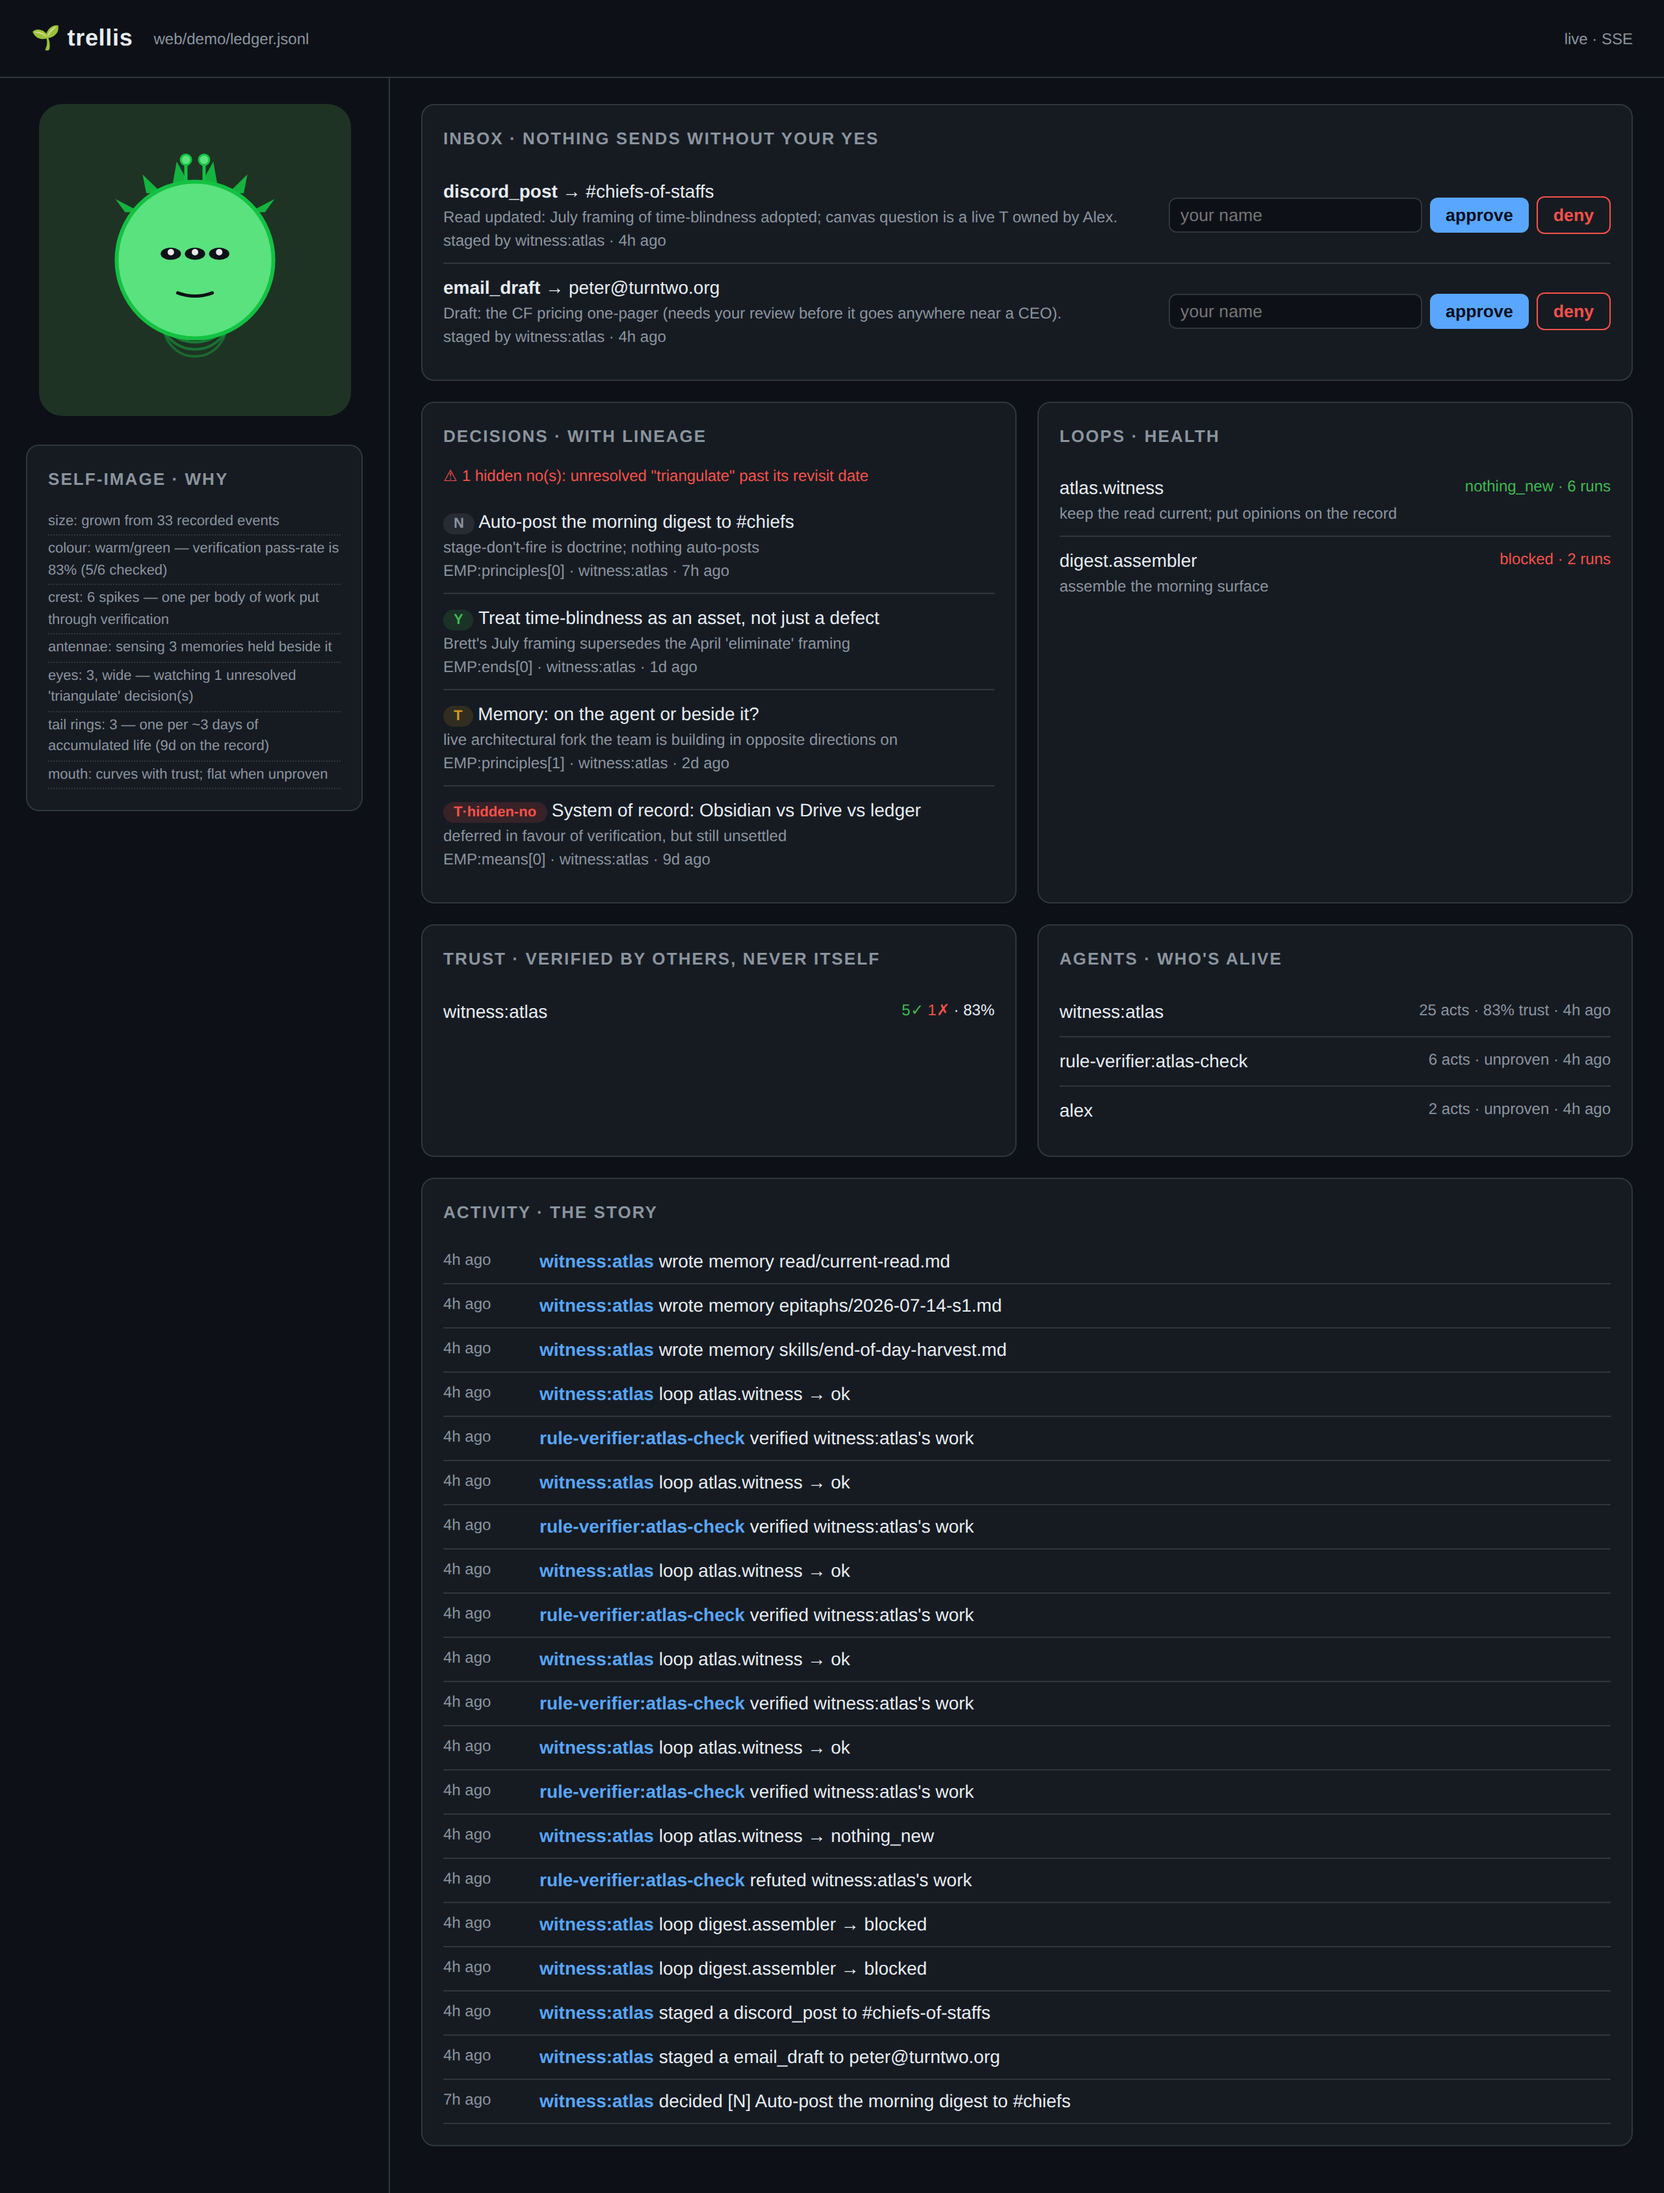
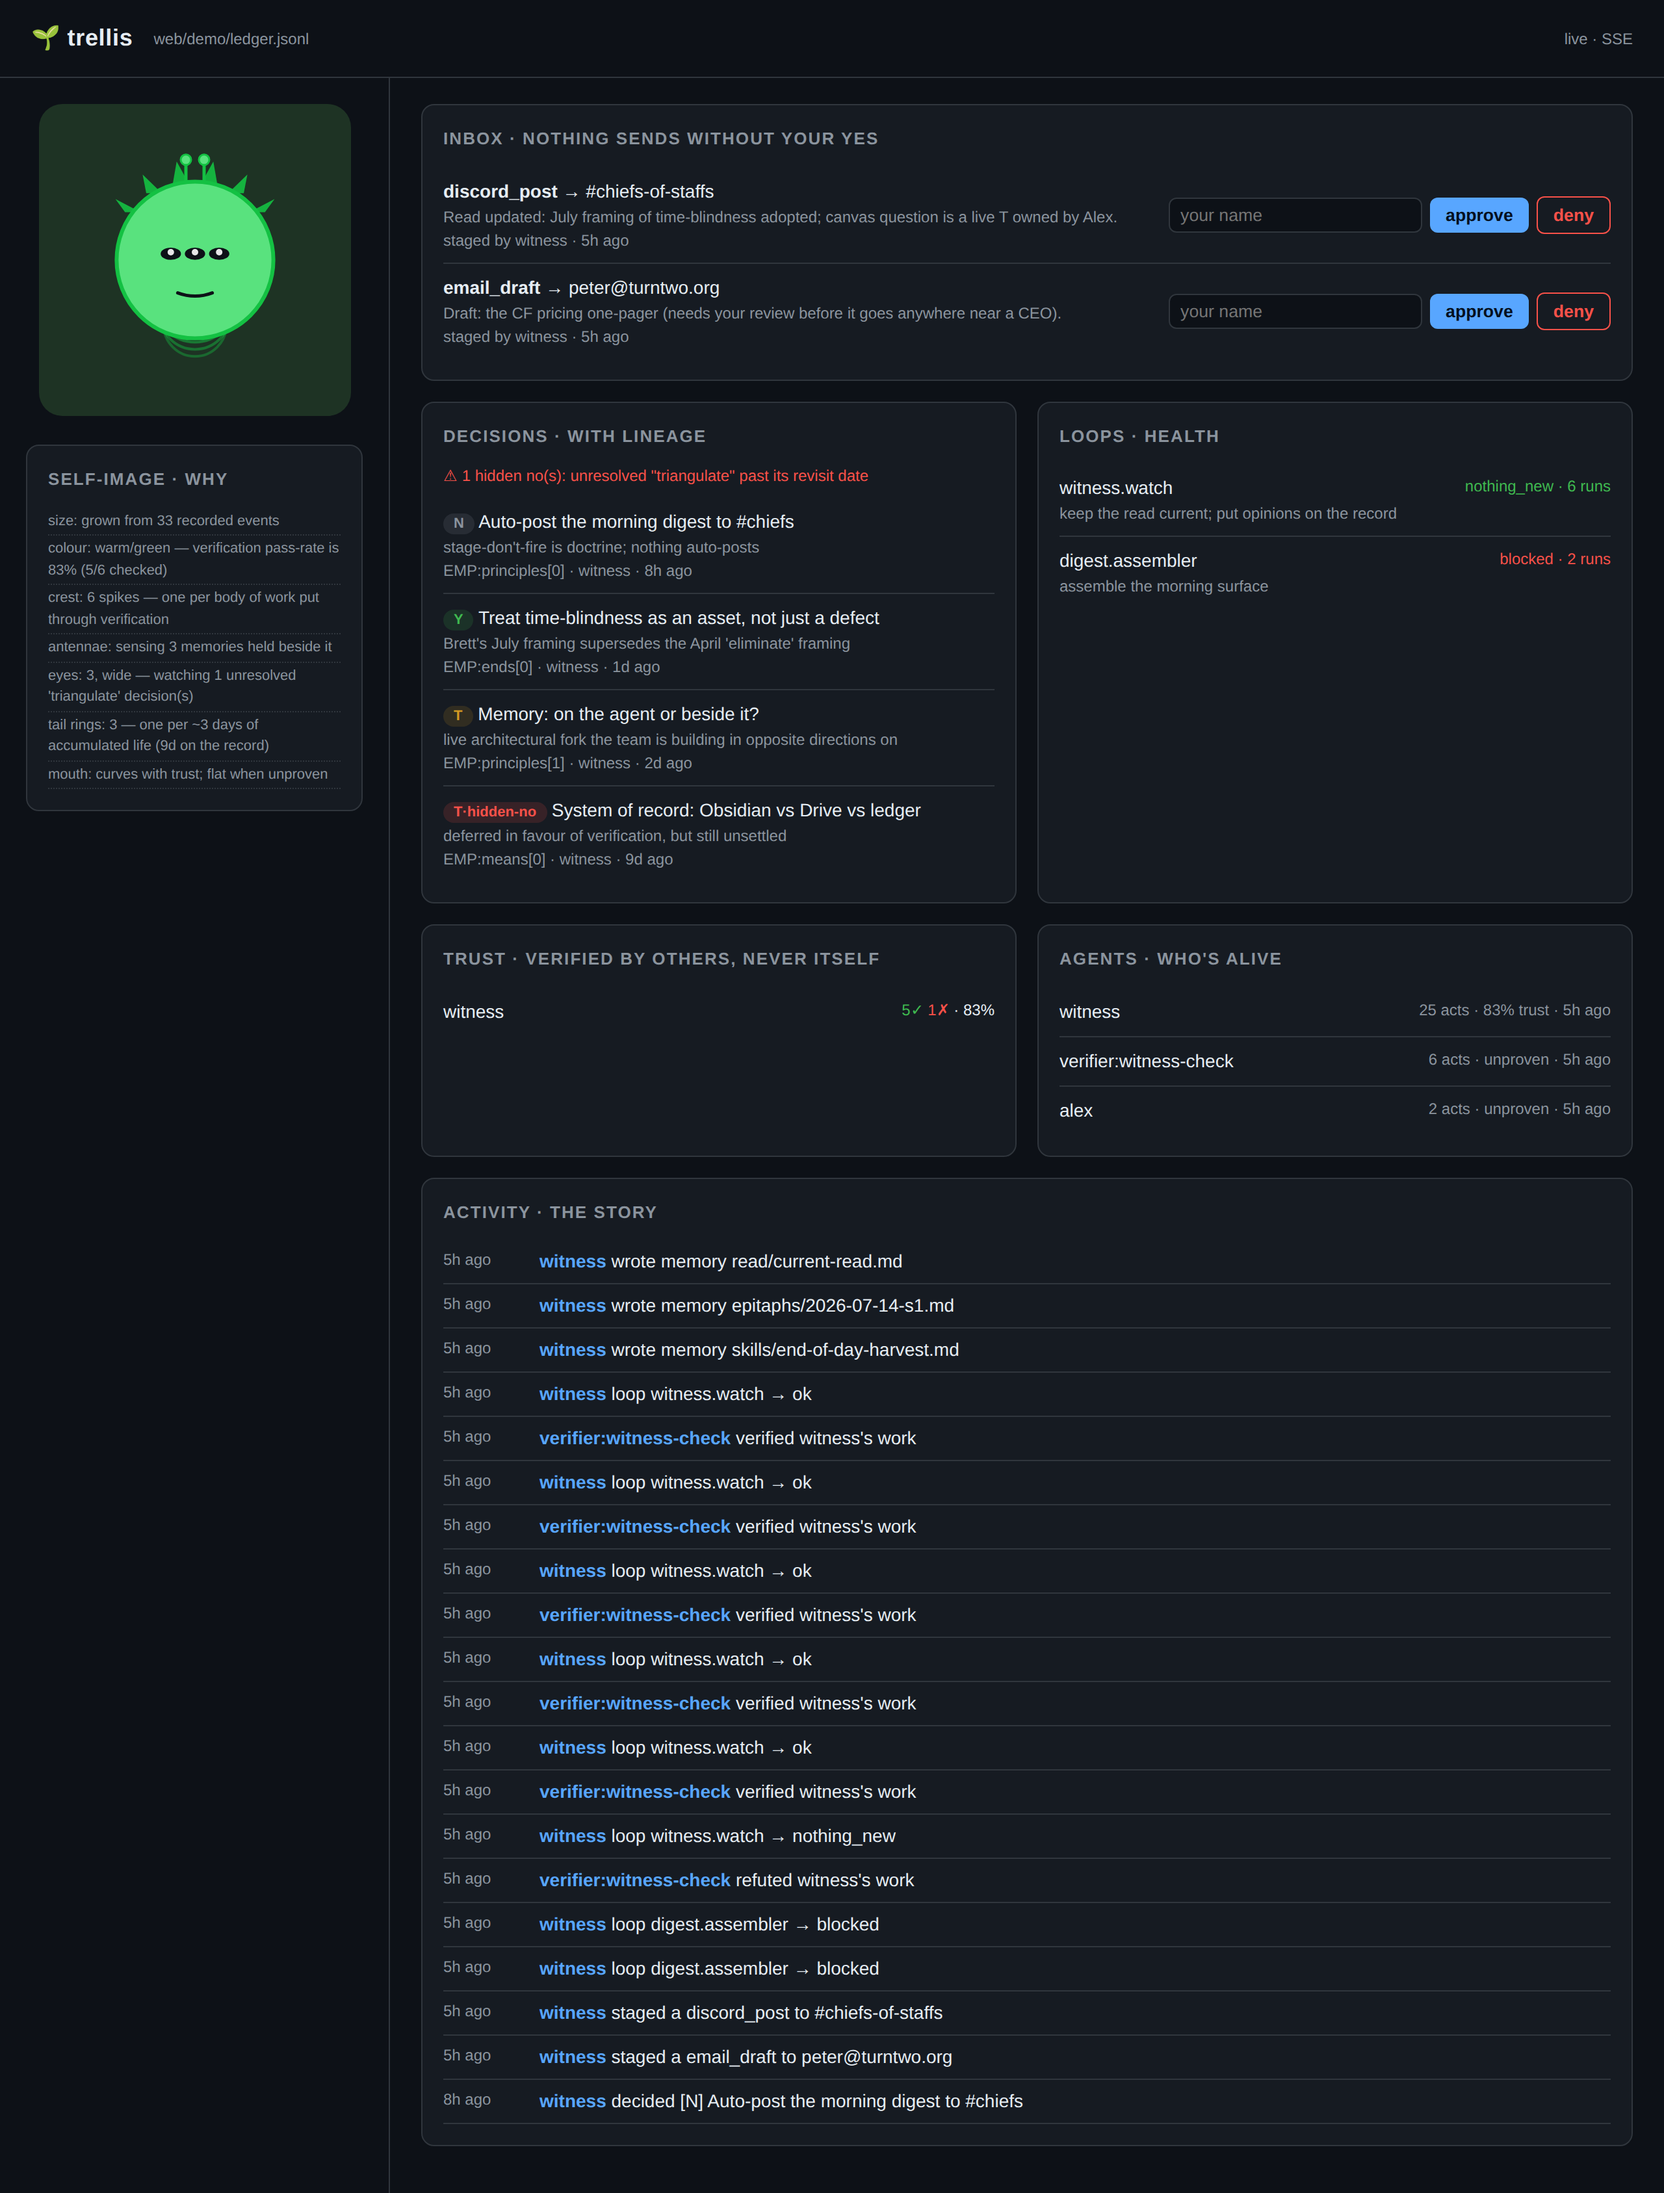
the demo agent is trellis's OWN agent, not Atlas
Alex caught a real framing error: the demo/mockup used 'Atlas' (the team's
EXISTING agent), wrongly making trellis look like an Atlas re-skin. trellis is
NEW infrastructure running its OWN new agent; and the team is deliberately
routing around Atlas as an anti-example, so conflating them is doubly wrong.

Fix (legitimate prior-art refs to the real Atlas kept):
  demo agent: witness:atlas -> witness; rule-verifier:atlas-check ->
  verifier:witness-check; atlas.witness -> witness.watch (function-named, per
  trellis's own 'a name is earned once function is stable' principle).
  Regenerated the demo ledger + re-screenshot the dashboard AND the reflection
  mockup ('How your agent sees itself today'). One test fixture id tidied.

The name is Alex's to set — function-named for now, renames in one pass. 135 tests.

Claude-Session: https://claude.ai/code/session_01YaRBzw1h33j2ZJbxtXoUjh

diff --git a/web/mockups/reflection-room.html b/web/mockups/reflection-room.html
@@ -39,7 +39,7 @@ h1{font-size:22px;margin:4px 0 4px}
 </div></nav>
 <main>
 <div class="crumb">Reflection · private · never shown to anyone the agent talks to</div>
-<h1>How Atlas sees itself today</h1>
+<h1>How your agent sees itself today</h1>
 <div class="sub">Each day the agent reflects on what it actually did and where it sat, and renders that understanding as an image of itself. Every part of the picture ties to real events — you can always ask &ldquo;why do you look like that?&rdquo; and get a true answer.</div>
 <div class="mirror">
   <figure><div class="gy"><svg xmlns="http://www.w3.org/2000/svg" viewBox="0 0 160 160" role="img" aria-label="trellis self-image glyph"><rect width="160" height="160" rx="18" fill="#1e3322"/><circle cx="80.0" cy="103.6" r="21.5" fill="none" stroke="#15c039" stroke-width="2" opacity="0.50"/><circle cx="80.0" cy="109.6" r="19.3" fill="none" stroke="#15c039" stroke-width="2" opacity="0.44"/><circle cx="80.0" cy="115.6" r="17.2" fill="none" stroke="#15c039" stroke-width="2" opacity="0.38"/><circle cx="80.0" cy="121.6" r="15.0" fill="none" stroke="#15c039" stroke-width="2" opacity="0.32"/><circle cx="80.0" cy="127.6" r="12.9" fill="none" stroke="#15c039" stroke-width="2" opacity="0.26"/><circle cx="80.0" cy="133.6" r="10.7" fill="none" stroke="#15c039" stroke-width="2" opacity="0.20"/><path d="M 38.4 56.0 L 34.5 49.3 L 50.4 56.0 Z" fill="#15c039" opacity="0.9"/><path d="M 45.3 48.1 L 43.2 39.2 L 57.3 48.1 Z" fill="#15c039" opacity="0.9"/><path d="M 53.9 42.1 L 54.2 31.5 L 65.9 42.1 Z" fill="#15c039" opacity="0.9"/><path d="M 63.6 38.4 L 66.7 26.7 L 75.6 38.4 Z" fill="#15c039" opacity="0.9"/><path d="M 74.0 37.1 L 80.0 25.1 L 86.0 37.1 Z" fill="#15c039" opacity="0.9"/><path d="M 84.4 38.4 L 93.3 26.7 L 96.4 38.4 Z" fill="#15c039" opacity="0.9"/><path d="M 94.1 42.1 L 105.8 31.5 L 106.1 42.1 Z" fill="#15c039" opacity="0.9"/><path d="M 102.7 48.1 L 116.8 39.2 L 114.7 48.1 Z" fill="#15c039" opacity="0.9"/><path d="M 109.6 56.0 L 125.5 49.3 L 121.6 56.0 Z" fill="#15c039" opacity="0.9"/><line x1="66.0" y1="41.4" x2="66.0" y2="26.4" stroke="#15c039" stroke-width="2.5"/><circle cx="66.0" cy="25.1" r="4" fill="#5ae176" stroke="#15c039" stroke-width="1.5"/><line x1="80.0" y1="41.4" x2="80.0" y2="26.4" stroke="#15c039" stroke-width="2.5"/><circle cx="80.0" cy="25.1" r="4" fill="#5ae176" stroke="#15c039" stroke-width="1.5"/><line x1="94.0" y1="41.4" x2="94.0" y2="26.4" stroke="#15c039" stroke-width="2.5"/><circle cx="94.0" cy="25.1" r="4" fill="#5ae176" stroke="#15c039" stroke-width="1.5"/><circle cx="80.0" cy="80.0" r="42.9" fill="#5ae176" stroke="#15c039" stroke-width="3"/><ellipse cx="66.8" cy="76.6" rx="5.6" ry="3.9" fill="#0d1117"/><circle cx="66.8" cy="75.7" r="1.8" fill="#ffffff" opacity="0.9"/><ellipse cx="75.6" cy="76.6" rx="5.6" ry="3.9" fill="#0d1117"/><circle cx="75.6" cy="75.7" r="1.8" fill="#ffffff" opacity="0.9"/><ellipse cx="84.4" cy="76.6" rx="5.6" ry="3.9" fill="#0d1117"/><circle cx="84.4" cy="75.7" r="1.8" fill="#ffffff" opacity="0.9"/><ellipse cx="93.2" cy="76.6" rx="5.6" ry="3.9" fill="#0d1117"/><circle cx="93.2" cy="75.7" r="1.8" fill="#ffffff" opacity="0.9"/><path d="M 70.6 98.0 Q 80.0 101.3 89.4 98.0" fill="none" stroke="#0d1117" stroke-width="2.5" stroke-linecap="round"/></svg></div><figcaption>yesterday</figcaption></figure>

diff --git a/web/demo_seed.py b/web/demo_seed.py
@@ -42,21 +42,21 @@ def seed_ledger() -> Ledger:
     ws = Workspace(demo / "ws", L)
 
     log.record(Decision("Treat time-blindness as an asset, not just a defect", Verdict.Y,
-        "Brett's July framing supersedes the April 'eliminate' framing", "witness:atlas",
+        "Brett's July framing supersedes the April 'eliminate' framing", "witness",
         "EMP:ends[0]"), event_time=at(1))
     log.record(Decision("Auto-post the morning digest to #chiefs", Verdict.N,
-        "stage-don't-fire is doctrine; nothing auto-posts", "witness:atlas",
+        "stage-don't-fire is doctrine; nothing auto-posts", "witness",
         "EMP:principles[0]", returnable_note="reopen if team ratifies autonomous posting"),
         event_time=at(0, 3))
     povs = [POV("brett", "memory beside the agent; the agent dies"),
             POV("clare", "mount the protocol folder; server-wide memory"),
             POV("sarah", "workflow-first; route around the unreliable agent")]
     log.record(Decision("Memory: on the agent or beside it?", Verdict.T,
-        "live architectural fork the team is building in opposite directions on", "witness:atlas",
+        "live architectural fork the team is building in opposite directions on", "witness",
         "EMP:principles[1]", povs=povs, owner="alex", missing="a cost comparison",
         revisit_at=at(-4)), event_time=at(2))
     log.record(Decision("System of record: Obsidian vs Drive vs ledger", Verdict.T,
-        "deferred in favour of verification, but still unsettled", "witness:atlas",
+        "deferred in favour of verification, but still unsettled", "witness",
         "EMP:means[0]", povs=povs, owner="alex", missing="whether verification changes it",
         revisit_at=at(2)), event_time=at(9))
 
@@ -64,28 +64,28 @@ def seed_ledger() -> Ledger:
         ("read/current-read.md", "the current synthesized read exists nowhere else"),
         ("epitaphs/2026-07-14-s1.md", "session-final open threads exist nowhere else once the window closes"),
         ("skills/end-of-day-harvest.md", "a learned routine the team could not re-derive mechanically")]:
-        ws.write(pth, "content " * 20, "witness:atlas", why)
+        ws.write(pth, "content " * 20, "witness", why)
 
     reg = LoopRegistry(L, g)
-    spec = LoopSpec("atlas.witness", "keep the read current; put opinions on the record",
-                    "witness:atlas__channel__chiefs__-__-", max_turns=6,
+    spec = LoopSpec("witness.watch", "keep the read current; put opinions on the record",
+                    "witness__channel__chiefs__-__-", max_turns=6,
                     stop_condition="read current")
     reg.register(spec, "alex")
-    checker = RuleVerifier("rule-verifier:atlas-check", L, g)
+    checker = RuleVerifier("verifier:witness-check", L, g)
     f = str(demo / "ws" / "read" / "current-read.md")
     for i in range(6):
-        with LoopRun(spec, reg, actor="witness:atlas") as run:
+        with LoopRun(spec, reg, actor="witness") as run:
             run.tick()
             if i == 5:
                 run.nothing_new(checked=["#chiefs", "#general"])
             else:
                 run.ok("recorded opinions; read updated", evidence=[f])
         if i < 5:
-            c = CompletionClaim(maker="witness:atlas", task="keep the read current",
+            c = CompletionClaim(maker="witness", task="keep the read current",
                                 summary="recorded opinions; read updated",
                                 evidence=[Evidence(EvidenceKind.FILE, f)])
             record_verdict(L, c, checker.verify(c))
-    bad = CompletionClaim(maker="witness:atlas", task="x", summary="y",
+    bad = CompletionClaim(maker="witness", task="x", summary="y",
                           evidence=[Evidence(EvidenceKind.FILE, str(demo / "ws" / "nope.md"))])
     record_verdict(L, bad, checker.verify(bad))
 
@@ -93,17 +93,17 @@ def seed_ledger() -> Ledger:
                      max_turns=4, stop_condition="assembled")
     reg.register(spec2, "alex")
     for _ in range(2):
-        with LoopRun(spec2, reg, actor="witness:atlas") as run:
+        with LoopRun(spec2, reg, actor="witness") as run:
             run.tick()
             run.blocked(BlockKind.NEEDS_INPUT, on="pricing canon from Brett")
 
     box = Outbox(L, g)
     box.stage(StagedAction("discord_post", "#chiefs-of-staffs",
         "Read updated: July framing of time-blindness adopted; canvas question is a live T owned by Alex.",
-        created_by="witness:atlas"))
+        created_by="witness"))
     box.stage(StagedAction("email_draft", "peter@turntwo.org",
         "Draft: the CF pricing one-pager (needs your review before it goes anywhere near a CEO).",
-        created_by="witness:atlas"))
+        created_by="witness"))
     return L
 
 

diff --git a/tests/test_unforgivable_memory.py b/tests/test_unforgivable_memory.py
@@ -88,7 +88,7 @@ def test_empty_flush_is_legitimate_but_recorded(tmp_path, ledger):
 
 def test_epitaph_the_agent_dies_the_record_survives(tmp_path, ledger):
     ws = Workspace(tmp_path / "ws", ledger)
-    ws.epitaph("s3", "witness:atlas",
+    ws.epitaph("s3", "witness",
                what_happened="read three transcripts, formed two opinions",
                what_was_learned="Peter's ask pattern is findability, not features",
                open_threads=["confirm pricing canon with Brett"])
